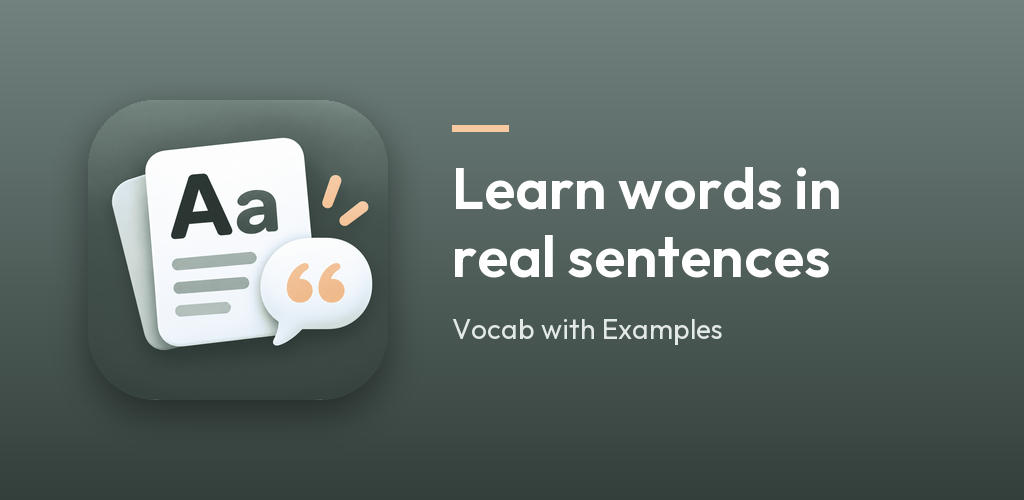
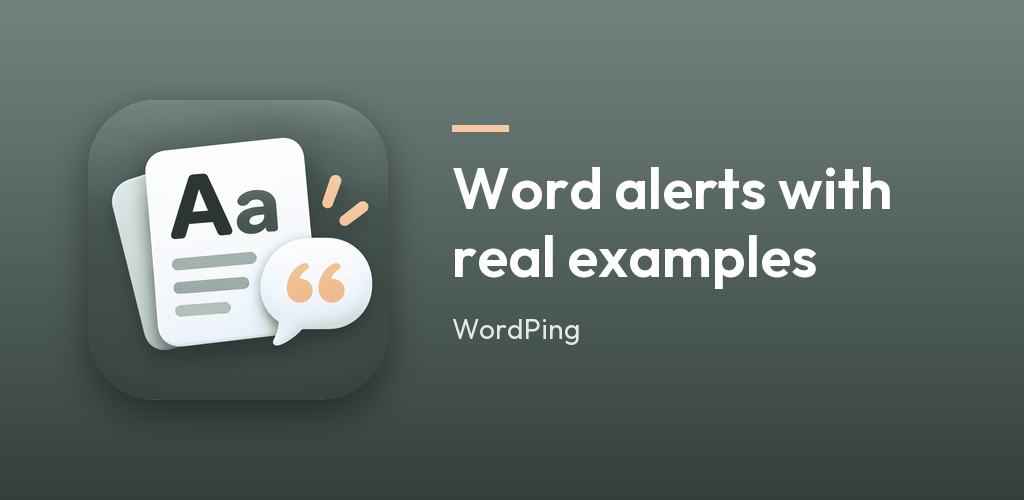
앱 이름 변경: 톡톡 단어장 (영어 WordPing)
- 앱 표시 이름(Android·iOS·웹), 화면 제목, 샘플 예문, 11개 언어 문구
- 스토어 등록정보: 알림·알람·예문을 강조한 제목과 간단한 설명,
  단어 알림 섹션을 맨 앞으로, iOS 부제·키워드 참고 추가
- 그래픽 이미지(영어·한국어)와 홈 스크린샷 다시 만듦

Changed region(s): [[0.4375, 0.33, 0.875, 0.42], [0.5312, 0.48, 0.8125, 0.57], [0.4375, 0.63, 0.7188, 0.69]]

diff --git a/web/index.html b/web/index.html
@@ -18,18 +18,18 @@
 
   <meta charset="UTF-8">
   <meta content="IE=Edge" http-equiv="X-UA-Compatible">
-  <meta name="description" content="예문으로 배우고 복습하는 예문 단어장 (Vocab with Examples)">
+  <meta name="description" content="예문과 단어 알림으로 외우는 톡톡 단어장 (WordPing)">
 
   <!-- iOS meta tags & icons -->
   <meta name="mobile-web-app-capable" content="yes">
   <meta name="apple-mobile-web-app-status-bar-style" content="black">
-  <meta name="apple-mobile-web-app-title" content="Vocab with Examples">
+  <meta name="apple-mobile-web-app-title" content="WordPing">
   <link rel="apple-touch-icon" href="icons/Icon-192.png">
 
   <!-- Favicon -->
   <link rel="icon" type="image/png" href="favicon.png"/>
 
-  <title>Vocab with Examples</title>
+  <title>WordPing</title>
   <link rel="manifest" href="manifest.json">
 </head>
 <body>

diff --git a/lib/l10n/app_localizations_th.dart b/lib/l10n/app_localizations_th.dart
@@ -9,7 +9,7 @@ class AppLocalizationsTh extends AppLocalizations {
   AppLocalizationsTh([String locale = 'th']) : super(locale);
 
   @override
-  String get appTitle => 'Vocab with Examples';
+  String get appTitle => 'WordPing';
 
   @override
   String get commonCancel => 'ยกเลิก';
@@ -1478,7 +1478,7 @@ class AppLocalizationsTh extends AppLocalizations {
   String get sampleWelcomeMeaning => 'ยินดีต้อนรับ';
 
   @override
-  String get sampleWelcomeExample1 => 'ยินดีต้อนรับสู่ Vocab with Examples!';
+  String get sampleWelcomeExample1 => 'ยินดีต้อนรับสู่ WordPing!';
 
   @override
   String get sampleWelcomeExample2 => 'ยินดีต้อนรับกลับมาทุกคน';

diff --git a/lib/l10n/app_localizations_ko.dart b/lib/l10n/app_localizations_ko.dart
@@ -9,7 +9,7 @@ class AppLocalizationsKo extends AppLocalizations {
   AppLocalizationsKo([String locale = 'ko']) : super(locale);
 
   @override
-  String get appTitle => '예문 단어장';
+  String get appTitle => '톡톡 단어장';
 
   @override
   String get commonCancel => '취소';
@@ -1421,7 +1421,7 @@ class AppLocalizationsKo extends AppLocalizations {
   String get sampleWelcomeMeaning => '환영합니다, 어서 오세요';
 
   @override
-  String get sampleWelcomeExample1 => 'Vocab with Examples에 오신 것을 환영합니다!';
+  String get sampleWelcomeExample1 => '톡톡 단어장에 오신 것을 환영합니다!';
 
   @override
   String get sampleWelcomeExample2 => '모두 돌아온 것을 환영해요.';

diff --git a/lib/l10n/app_localizations_en.dart b/lib/l10n/app_localizations_en.dart
@@ -9,7 +9,7 @@ class AppLocalizationsEn extends AppLocalizations {
   AppLocalizationsEn([String locale = 'en']) : super(locale);
 
   @override
-  String get appTitle => 'Vocab with Examples';
+  String get appTitle => 'WordPing';
 
   @override
   String get commonCancel => 'Cancel';
@@ -1514,8 +1514,7 @@ class AppLocalizationsEn extends AppLocalizations {
   String get sampleWelcomeMeaning => 'used to greet someone who has arrived';
 
   @override
-  String get sampleWelcomeExample1 =>
-      'We\'re glad you\'re here in Vocab with Examples!';
+  String get sampleWelcomeExample1 => 'We\'re glad you\'re here in WordPing!';
 
   @override
   String get sampleWelcomeExample2 => 'Good to have everyone back.';

diff --git a/lib/l10n/app_localizations_vi.dart b/lib/l10n/app_localizations_vi.dart
@@ -9,7 +9,7 @@ class AppLocalizationsVi extends AppLocalizations {
   AppLocalizationsVi([String locale = 'vi']) : super(locale);
 
   @override
-  String get appTitle => 'Vocab with Examples';
+  String get appTitle => 'WordPing';
 
   @override
   String get commonCancel => 'Hủy';
@@ -1472,8 +1472,7 @@ class AppLocalizationsVi extends AppLocalizations {
   String get sampleWelcomeMeaning => 'chào mừng';
 
   @override
-  String get sampleWelcomeExample1 =>
-      'Chào mừng bạn đến với Vocab with Examples!';
+  String get sampleWelcomeExample1 => 'Chào mừng bạn đến với WordPing!';
 
   @override
   String get sampleWelcomeExample2 => 'Chào mừng mọi người trở lại.';

diff --git a/lib/l10n/app_localizations_ja.dart b/lib/l10n/app_localizations_ja.dart
@@ -9,7 +9,7 @@ class AppLocalizationsJa extends AppLocalizations {
   AppLocalizationsJa([String locale = 'ja']) : super(locale);
 
   @override
-  String get appTitle => 'Vocab with Examples';
+  String get appTitle => 'WordPing';
 
   @override
   String get commonCancel => 'キャンセル';
@@ -1443,7 +1443,7 @@ class AppLocalizationsJa extends AppLocalizations {
   String get sampleWelcomeMeaning => 'ようこそ、いらっしゃい';
 
   @override
-  String get sampleWelcomeExample1 => 'Vocab with Examplesへようこそ！';
+  String get sampleWelcomeExample1 => 'WordPingへようこそ！';
 
   @override
   String get sampleWelcomeExample2 => 'みんな、おかえりなさい。';

diff --git a/lib/l10n/app_localizations.dart b/lib/l10n/app_localizations.dart
@@ -119,7 +119,7 @@ abstract class AppLocalizations {
   /// No description provided for @appTitle.
   ///
   /// In ko, this message translates to:
-  /// **'예문 단어장'**
+  /// **'톡톡 단어장'**
   String get appTitle;
 
   /// No description provided for @commonCancel.
@@ -2465,7 +2465,7 @@ abstract class AppLocalizations {
   /// No description provided for @sampleWelcomeExample1.
   ///
   /// In ko, this message translates to:
-  /// **'Vocab with Examples에 오신 것을 환영합니다!'**
+  /// **'톡톡 단어장에 오신 것을 환영합니다!'**
   String get sampleWelcomeExample1;
 
   /// No description provided for @sampleWelcomeExample2.

diff --git a/lib/l10n/app_localizations_es.dart b/lib/l10n/app_localizations_es.dart
@@ -9,7 +9,7 @@ class AppLocalizationsEs extends AppLocalizations {
   AppLocalizationsEs([String locale = 'es']) : super(locale);
 
   @override
-  String get appTitle => 'Vocab with Examples';
+  String get appTitle => 'WordPing';
 
   @override
   String get commonCancel => 'Cancelar';
@@ -1525,7 +1525,7 @@ class AppLocalizationsEs extends AppLocalizations {
   String get sampleWelcomeMeaning => 'bienvenido, bienvenida';
 
   @override
-  String get sampleWelcomeExample1 => '¡Bienvenido a Vocab with Examples!';
+  String get sampleWelcomeExample1 => '¡Bienvenido a WordPing!';
 
   @override
   String get sampleWelcomeExample2 => 'Bienvenidos de nuevo a todos.';

diff --git a/lib/l10n/app_localizations_id.dart b/lib/l10n/app_localizations_id.dart
@@ -9,7 +9,7 @@ class AppLocalizationsId extends AppLocalizations {
   AppLocalizationsId([String locale = 'id']) : super(locale);
 
   @override
-  String get appTitle => 'Vocab with Examples';
+  String get appTitle => 'WordPing';
 
   @override
   String get commonCancel => 'Batal';
@@ -1497,7 +1497,7 @@ class AppLocalizationsId extends AppLocalizations {
   String get sampleWelcomeMeaning => 'selamat datang';
 
   @override
-  String get sampleWelcomeExample1 => 'Selamat datang di Vocab with Examples!';
+  String get sampleWelcomeExample1 => 'Selamat datang di WordPing!';
 
   @override
   String get sampleWelcomeExample2 => 'Selamat datang kembali, semuanya.';

diff --git a/lib/l10n/app_localizations_de.dart b/lib/l10n/app_localizations_de.dart
@@ -9,7 +9,7 @@ class AppLocalizationsDe extends AppLocalizations {
   AppLocalizationsDe([String locale = 'de']) : super(locale);
 
   @override
-  String get appTitle => 'Vocab with Examples';
+  String get appTitle => 'WordPing';
 
   @override
   String get commonCancel => 'Abbrechen';
@@ -1527,7 +1527,7 @@ class AppLocalizationsDe extends AppLocalizations {
   String get sampleWelcomeMeaning => 'willkommen';
 
   @override
-  String get sampleWelcomeExample1 => 'Willkommen bei Vocab with Examples!';
+  String get sampleWelcomeExample1 => 'Willkommen bei WordPing!';
 
   @override
   String get sampleWelcomeExample2 => 'Willkommen zurück, alle zusammen.';

diff --git a/lib/l10n/app_localizations_pt.dart b/lib/l10n/app_localizations_pt.dart
@@ -9,7 +9,7 @@ class AppLocalizationsPt extends AppLocalizations {
   AppLocalizationsPt([String locale = 'pt']) : super(locale);
 
   @override
-  String get appTitle => 'Vocab with Examples';
+  String get appTitle => 'WordPing';
 
   @override
   String get commonCancel => 'Cancelar';
@@ -1525,7 +1525,7 @@ class AppLocalizationsPt extends AppLocalizations {
   String get sampleWelcomeMeaning => 'bem-vindo, bem-vinda';
 
   @override
-  String get sampleWelcomeExample1 => 'Bem-vindo ao Vocab with Examples!';
+  String get sampleWelcomeExample1 => 'Bem-vindo ao WordPing!';
 
   @override
   String get sampleWelcomeExample2 => 'Bem-vindos de volta, pessoal.';

diff --git a/lib/l10n/app_localizations_fr.dart b/lib/l10n/app_localizations_fr.dart
@@ -9,7 +9,7 @@ class AppLocalizationsFr extends AppLocalizations {
   AppLocalizationsFr([String locale = 'fr']) : super(locale);
 
   @override
-  String get appTitle => 'Vocab with Examples';
+  String get appTitle => 'WordPing';
 
   @override
   String get commonCancel => 'Annuler';
@@ -1526,7 +1526,7 @@ class AppLocalizationsFr extends AppLocalizations {
   String get sampleWelcomeMeaning => 'bienvenue';
 
   @override
-  String get sampleWelcomeExample1 => 'Bienvenue dans Vocab with Examples !';
+  String get sampleWelcomeExample1 => 'Bienvenue dans WordPing !';
 
   @override
   String get sampleWelcomeExample2 => 'Bon retour à tous.';
